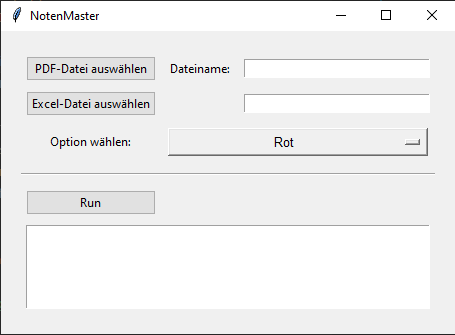
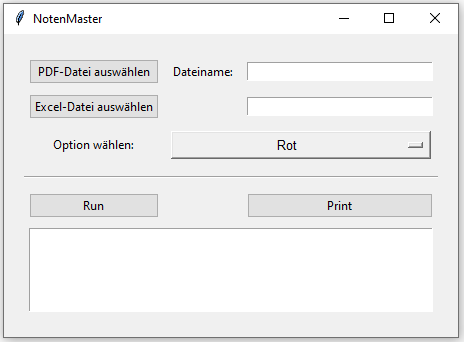
Adapted readme

diff --git a/README.md b/README.md
@@ -1,13 +1,56 @@
 # NotenMaster
 
-## Env
-Create conda env with requirements.txt
-<conda create --name <env> --file requirements.txt>
+## Overview
+
+The Orchestral Sheet Music Splitter is a program designed to assist orchestras in organizing and splitting a large PDF file containing multiple sheet music parts into individual parts for each instrument and voice. The program uses information provided in an Excel file to determine the corresponding page numbers for each instrument and voice.
+
+## Features
+- PDF and Excel Selection: The user can select the large PDF file and the corresponding Excel file through a user-friendly GUI.
+- Output Organization: After selecting a destination folder, the program creates a main folder named after the song title, with subfolders for each instrument containing their respective sheet music pages.
+- Print Function: The program can generate a large print-ready PDF file. The number of copies for each part is taken from the "Print Count" column in the Excel file.
+- Excel Template: A template of the required Excel file format is included in the repository.
+
+## How it works
+1. **Input Files:** The user selects the large PDF containing all the sheet music parts and an Excel file that lists each instrument and voice with their corresponding page numbers.
+2. **Run the Program:** Upon clicking the "Run" button, the user is prompted to select a destination folder for the output.
+3. **File Generation:** The program processes the PDF and Excel files, creating a main folder named after the song title. Inside this folder, it creates subfolders for each instrument, splitting the PDF into individual parts and saving them in their respective subfolders.
+4. **Print PDF:** Optionally, the program can generate a single PDF file for printing, with the number of copies specified in the Excel file.
 
 ## Usage
-- Start the batch-file start.bat
-- The folder options can be adapted in the config.yml file
-- The instrument groups can be adapted in the config.yml too.
-- A Linking can be created on the desctop pointing to the start.bat file
+1. **Prepare Excel File:** Use the provided template to list each instrument and voice along with their corresponding page numbers in the PDF.
+2. **Start the Program:** Either run `main.py` or use the bash file `start.bat` to execute it. If you are using the `start.bat` you have to adapt the conda env.
+3. **Select Files:** Through the GUI, select the large PDF file and the prepared Excel file.
+4. **Choose Destination:** After clicking the "Run" button, select a folder where the output should be saved.
+5. **Generate Output:** The program will create the necessary folders and split the PDF accordingly. If the print function is used, it will also generate a print-ready PDF file.
+
+## Example
+1. **Excel Template:** The provided template should be filled with the instrument names, corresponding page numbers, and print count.
+2. **GUI Interaction:** Select the PDF and Excel files using the GUI, then specify the output folder.
+3. **Output Structure:**
+```python
+Song_Title/
+├── Violin/
+│   ├── page1.pdf
+│   ├── page2.pdf
+│   └── ...
+├── Flute/
+│   ├── page5.pdf
+│   ├── page6.pdf
+│   └── ...
+└── ...
+```
+4. **Print PDF:** A single PDF file with all parts, with the number of copies specified in the Excel file.
+
+## Installation
+Clone the Repository
+```bash
+git clone https://github.com/your-repo/orchestral-sheet-music-splitter.git
+```
+
+Create conda env with requirements.txt
+```bash
+conda create --name <env> --file requirements.txt
+```
+## GUI
 
 ![alt text](gui.png)
